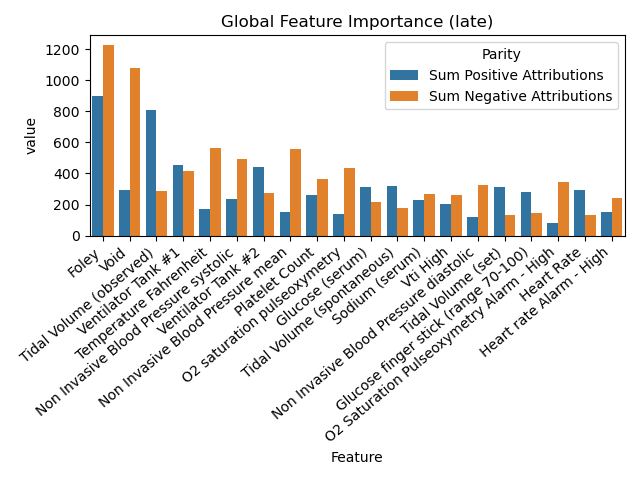
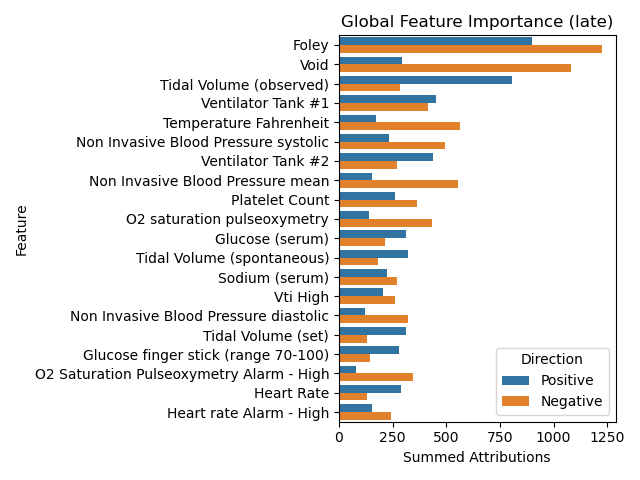
Put features on y axis of all figures

diff --git a/src/tabsep/reporting/globalImportance.py b/src/tabsep/reporting/globalImportance.py
@@ -51,27 +51,27 @@ def summative_importances(att):
     importances = pd.DataFrame(
         data={
             "Feature": get_feature_labels(),
-            "Sum Positive Attributions": sum_pos_attrs.to("cpu").detach().numpy(),
-            "Sum Negative Attributions": sum_neg_attr.to("cpu").detach().numpy(),
+            "Positive": sum_pos_attrs.to("cpu").detach().numpy(),
+            "Negative": sum_neg_attr.to("cpu").detach().numpy(),
         }
     )
 
-    importances["total_importance"] = (
-        importances["Sum Positive Attributions"]
-        + importances["Sum Negative Attributions"]
-    )
+    importances["total_importance"] = importances["Positive"] + importances["Negative"]
 
     topn = importances.nlargest(20, columns="total_importance")
     topn = topn.drop(columns="total_importance")
 
-    topn = pd.melt(topn, id_vars="Feature", var_name="Parity")
-    ax = sns.barplot(x="Feature", y="value", data=topn, hue="Parity")
-    ax.set_xticklabels(ax.get_xticklabels(), rotation=40, ha="right")
+    topn = pd.melt(topn, id_vars="Feature", var_name="Direction")
+    topn = topn.rename(columns={"value": "Summed Attributions"})
+    ax = sns.barplot(
+        x="Summed Attributions", y="Feature", data=topn, hue="Direction", orient="h"
+    )
     ax.set_title(f"Global Feature Importance ({title})")
     plt.tight_layout()
     plt.savefig(f"results/{title}_importances.png")
     plt.clf()
 
+    topn.to_csv(f"results/{title}_importances.csv", index=False)
     return topn
 
 

diff --git a/src/tabsep/reporting/localImportance.py b/src/tabsep/reporting/localImportance.py
@@ -19,7 +19,7 @@ if __name__ == "__main__":
     sample_idx = np.argmax(
         torch.logical_and(
             torch.logical_and(y_test == 1, torch.sum(X_test[:, :, -1], dim=1) > 3,),
-            torch.logical_and(torch.sum(X_test[:, :, -1], dim=1) < 40, preds > 0.65,),
+            torch.logical_and(torch.sum(X_test[:, :, -1], dim=1) < 40, preds > 0.8,),
         )
     )
 
@@ -40,7 +40,7 @@ if __name__ == "__main__":
 
     sample_case.index.name = "Time in ICU (hrs.)"
 
-    ax = sns.heatmap(sample_case, linewidths=0.01, linecolor="black")
+    ax = sns.heatmap(sample_case.transpose(), linewidths=0.01, linecolor="black")
     ax.set_xticklabels(ax.get_xticklabels(), rotation=40, ha="right")
     ax.set_yticklabels(ax.get_yticklabels(), rotation=0)
     ax.set_title(
